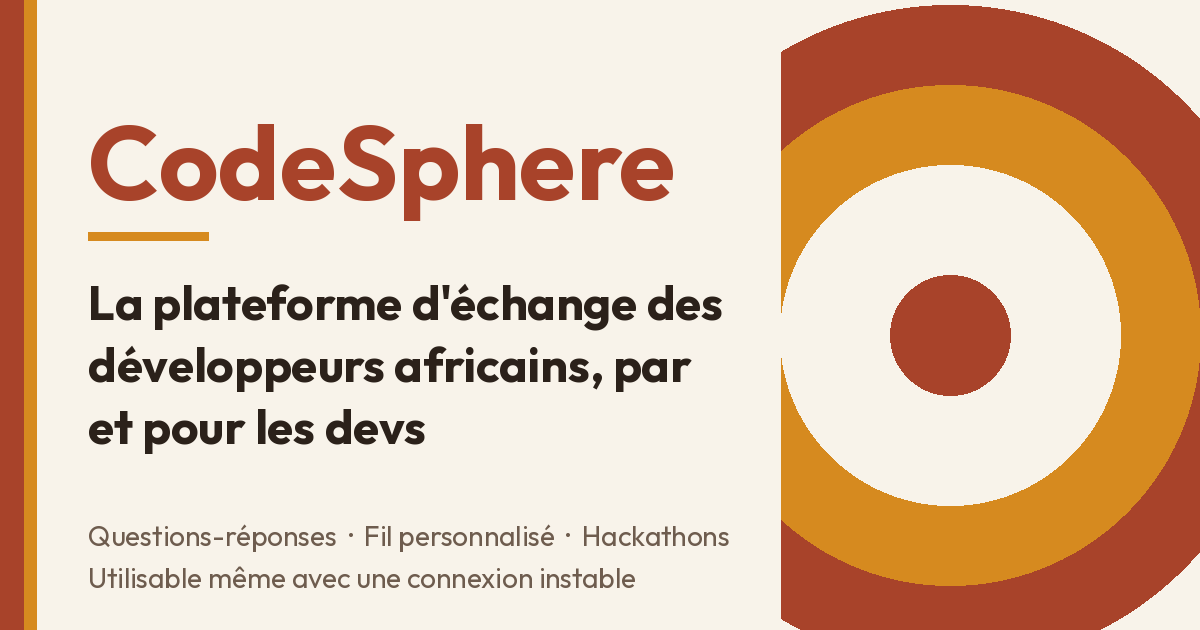
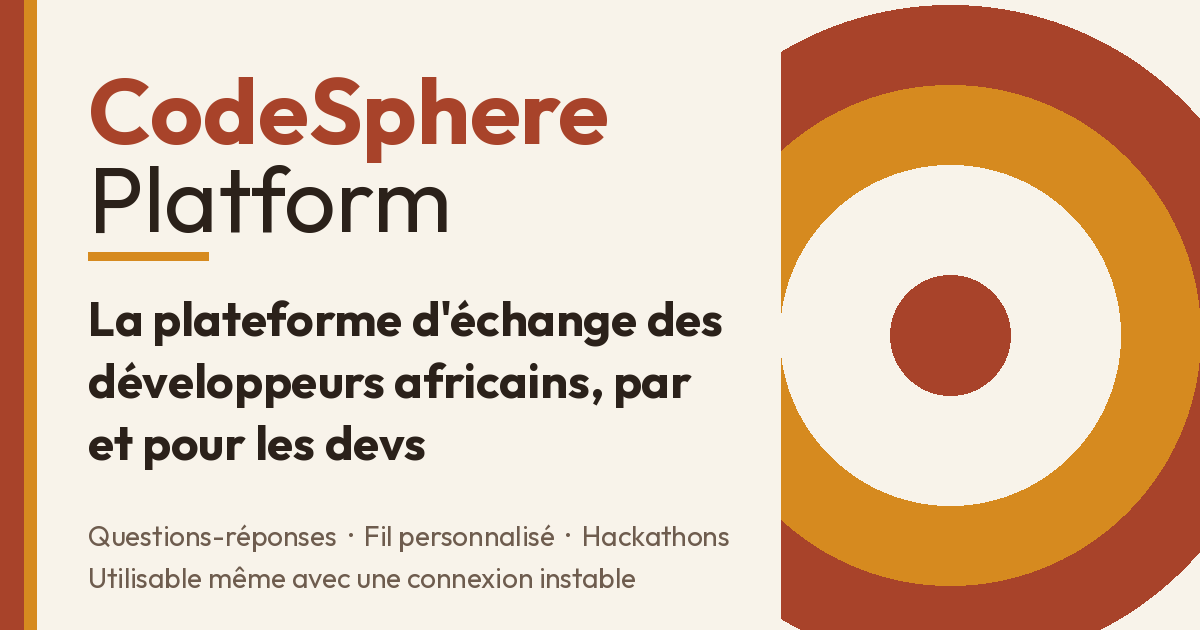
fix(web): name the site CodeSphere Platform in link previews
The site name, page title suffix, card alt text and the card image say
"CodeSphere Platform" instead of "CodeSphere" alone.

Claude-Session: https://claude.ai/code/session_01SqqmAQoGmx4VkQF24B6oC2

Changed region(s): [[0.0617, 0.4524, 0.6167, 0.754], [0.0617, 0.1206, 0.5858, 0.4222]]

diff --git a/apps/web/src/app/layout.tsx b/apps/web/src/app/layout.tsx
@@ -30,18 +30,18 @@ const DESCRIPTION = "Plateforme d'échange pour développeurs africains";
 export async function generateMetadata(): Promise<Metadata> {
 	const imageUrl = await publicPageUrl(OG_IMAGE_PATH);
 	return {
-		title: "CodeSphere Platform",
+		title: SITE_NAME,
 		description: DESCRIPTION,
 		openGraph: {
 			type: "website",
-			title: "CodeSphere Platform",
+			title: SITE_NAME,
 			description: DESCRIPTION,
 			siteName: SITE_NAME,
 			images: [ogImage(imageUrl)],
 		},
 		twitter: {
 			card: "summary_large_image",
-			title: "CodeSphere Platform",
+			title: SITE_NAME,
 			description: DESCRIPTION,
 			images: [imageUrl],
 		},

diff --git a/apps/web/src/lib/share.test.ts b/apps/web/src/lib/share.test.ts
@@ -65,7 +65,7 @@ describe("previewMetadata", () => {
 			url: "https://a.dev/questions/1",
 			imageUrl: "https://a.dev/og-default.png",
 		});
-		expect(m.title).toBe("How to X? · CodeSphere");
+		expect(m.title).toBe("How to X? · CodeSphere Platform");
 		expect(m.description).toBe("A long body");
 		expect(m.alternates.canonical).toBe("https://a.dev/questions/1");
 		expect(m.openGraph.title).toBe("How to X?");
@@ -76,7 +76,7 @@ describe("previewMetadata", () => {
 				url: "https://a.dev/og-default.png",
 				width: 1200,
 				height: 630,
-				alt: "CodeSphere",
+				alt: "CodeSphere Platform",
 			},
 		]);
 	});

diff --git a/apps/web/src/lib/share.ts b/apps/web/src/lib/share.ts
@@ -82,7 +82,7 @@ type PreviewInput = {
 	imageUrl: string;
 };
 
-export const SITE_NAME = "CodeSphere";
+export const SITE_NAME = "CodeSphere Platform";
 
 /** Static card image served from `public/`, 1200x630 (#262). */
 export const OG_IMAGE_PATH = "/og-default.png";
